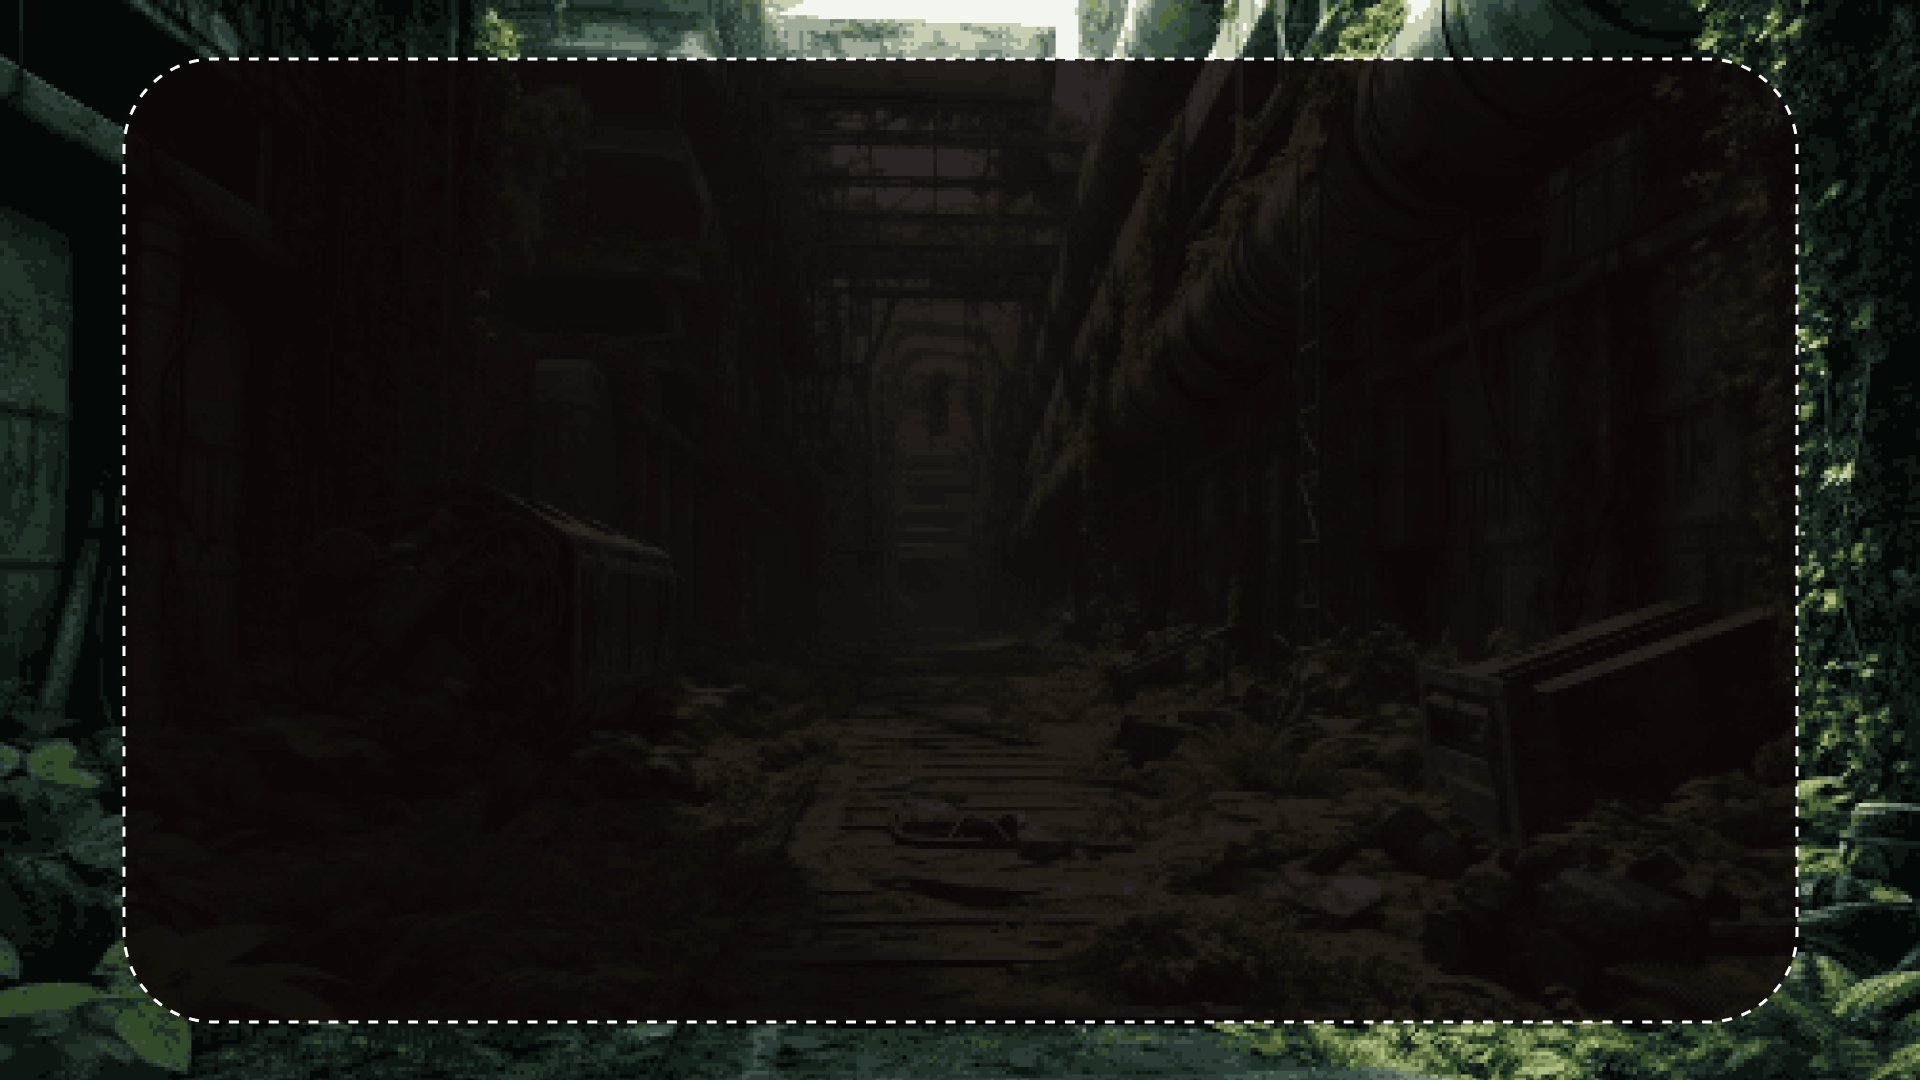
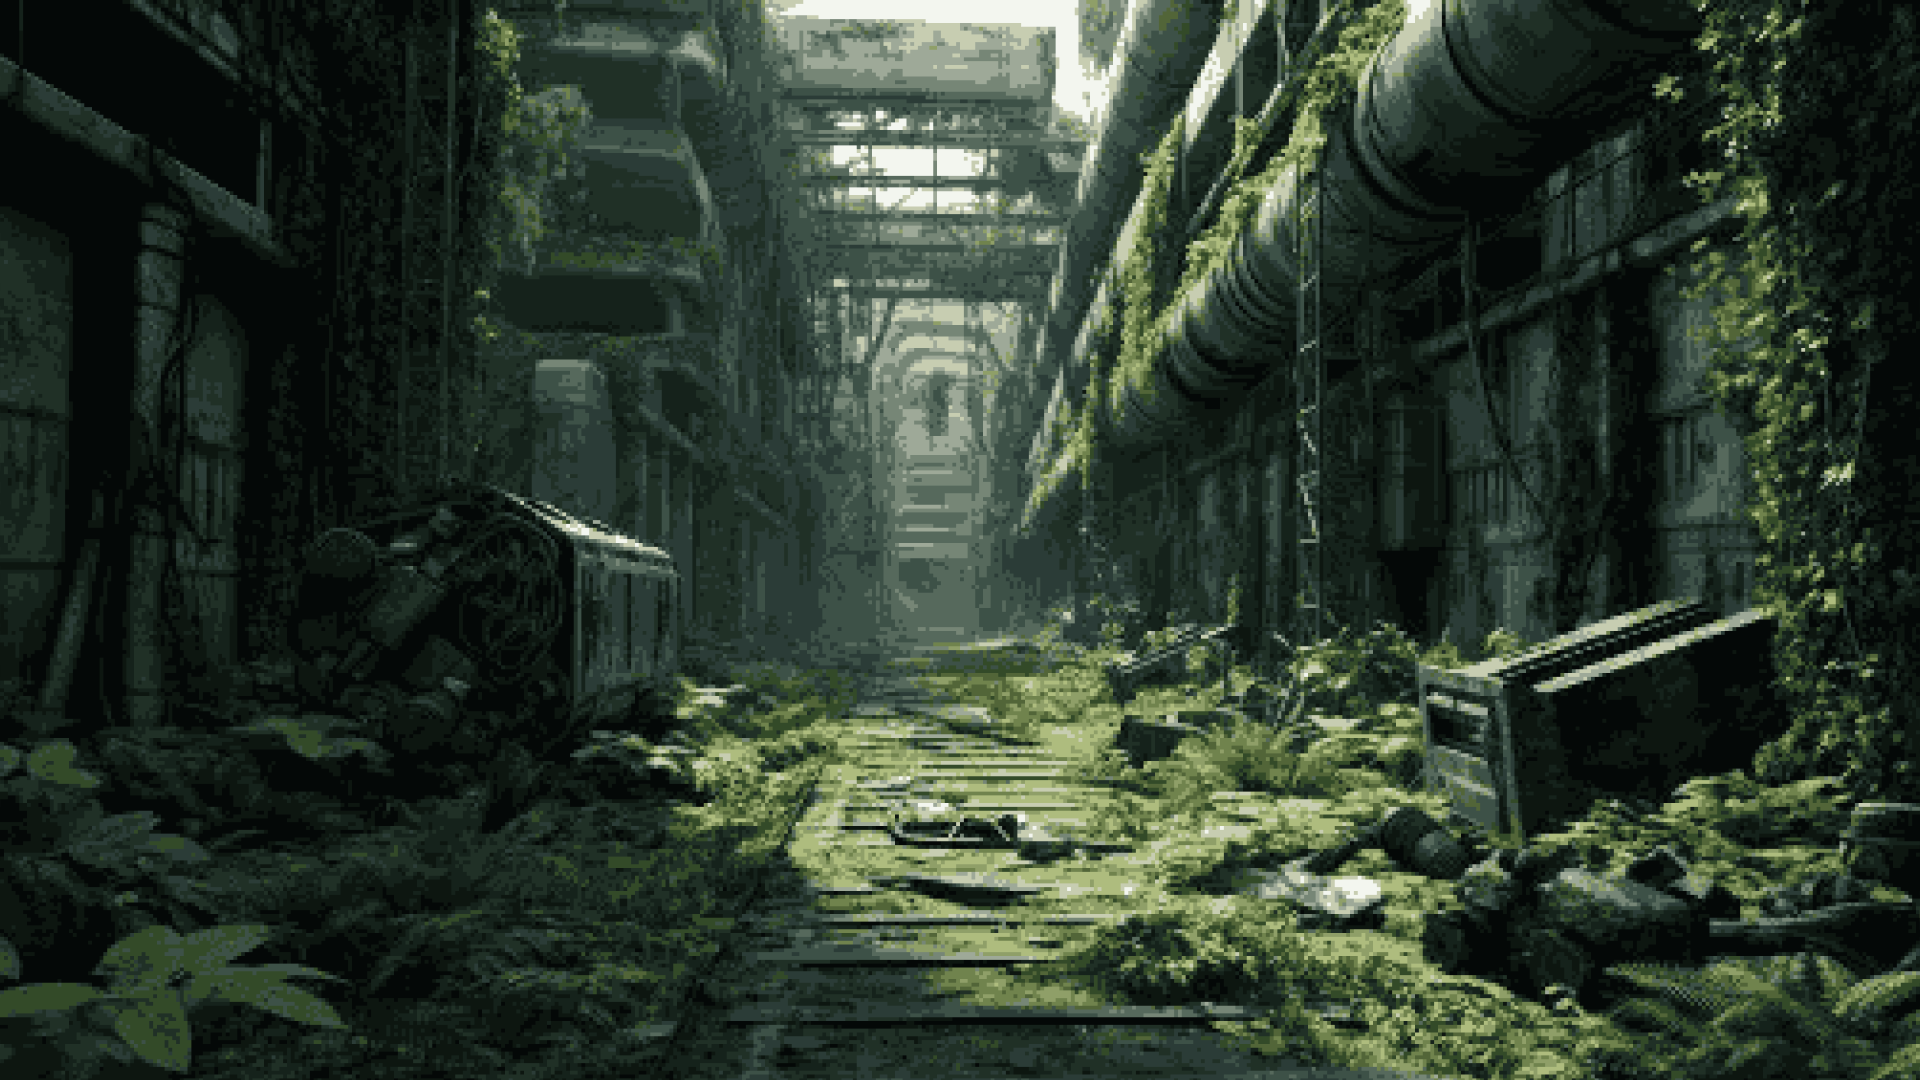
change backimage

diff --git a/frontend_project/src/pages/PaintPage.jsx b/frontend_project/src/pages/PaintPage.jsx
@@ -119,112 +119,115 @@ const PaintPage = () => {
         className="flex flex-col items-center justify-center w-screen h-screen"
         style={{
           backgroundImage: `url(${plant_img})`,
-          backgroundSize: "cover", 
+          backgroundSize: "cover",
           backgroundPosition: "center"
         }}
       >
-        <div>
-          {shouldNavigate && <Navigate to="/make" replace />}
-          <div className="text-white justify-center items-center">
-            <h2 className="text-4xl mb-10 ">
-              会話するモンスターを描いてください
-            </h2>
-          </div>
-          <div className="gap-32 flex justify-center">
-            <div className=" border-2 bg-white">
-              <canvas
-                ref={canvasRef}
-                onMouseDown={startDrawing}
-                onMouseMove={draw}
-                onMouseUp={stopDrawing}
-                onMouseLeave={stopDrawing}
-              />
-            </div>
-
-            <div className="flex flex-col justify-center items-center">
-              <h2 className="border-2 border-yellow-400  bg-slate-200 dark:bg-gray-500 w-80 mb-12 flex justify-center gap-8">
-                <div className="flex items-center">
-                  <label htmlFor="color" className="mr-2">ペンの色: </label>
-                  <input
-                    type="color"
-                    id="color"
-                    value={penColor}
-                    onChange={handleColorChange}
-                  />
-                </div>
-
-                <div className=" flex items-center">
-                  <label htmlFor="size" className="mr-2">ペンの太さ: </label>
-                  <input
-                  className="bg-white text-right text-black"
-                    type="number"
-                    id="size"
-                    min="1"
-                    max="10"
-                    value={penSize}
-                    onChange={handleSizeChange}
-                  />
-                </div>
+        {shouldNavigate && <Navigate to="/make" replace />}
+        <div className="w-screen h-screen flex justify-center items-center flex-col">
+          <div className="back_sheet z-10 relative"></div>
+          <div className="flex-col z-20 absolute top-50% left-50%">
+            <div className="text-white">
+              <h2 className="text-4xl mb-10 ">
+                会話するモンスターを描いてください
               </h2>
-              <div className="flex flex-col items-center">
-                <div className="w-44 flex justify-center  ">
-                  <button
-                    className="flex items-center w-5/5 m-6 border-2 border-yellow-400 bg-black text-white py-2 hover:bg-gray-700 transition duration-300 focus:border-transparent"
-                    onClick={eraseDrawing}
-                  >
-                    <img
-                      src={Eraser}
-                      alt="Click to Sign Out"
-                      className="w-1/5 mr-2"
-                    />
-                    <h2 className="text-2xl w-36 m-0">消しゴム</h2>
-                  </button>
-                  <button
-                    className="flex items-center w-5/5 m-6 border-2 border-yellow-400 bg-black text-white py-2 hover:bg-gray-700 transition duration-300 focus:border-transparent"
-                    onClick={clearCanvas}
-                  >
-                    <img
-                      src={Pencil}
-                      alt="Click to Sign Out"
-                      className="w-1/5 mr-2"
-                    />
-                    <h2 className="text-2xl w-36 m-0">クリア</h2>
-                  </button>
-                </div>
-                <div className="w-32 flex justify-center">
-                  <button
-                    className="flex items-center w-5/5 m-6 border-2 border-yellow-400 bg-black text-white py-2 hover:bg-gray-700 transition duration-300 focus:border-transparent"
-                    onClick={undoDrawing}
-                  >
-                    <img
-                      src={ArrowBack}
-                      alt="Click to Sign Out"
-                      className="w-1/5 mr-2"
-                    />
-                    <h2 className="text-2xl w-36 m-0">1つ戻る</h2>
-                  </button>
-                  <button
-                    className="flex items-center w-5/5 m-6 border-2 border-yellow-400 bg-black text-white py-2 hover:bg-gray-700 transition duration-300 focus:border-transparent"
-                    onClick={redoDrawing}
-                  >
-                    <img
-                      src={ArrowGo}
-                      alt="Click to Sign Out"
-                      className="w-1/5 mr-2"
-                    />
-                    <h2 className="text-2xl w-36 m-0">1つ進める</h2>
-                  </button>
-                </div>
-
-                {/* <button onClick={() => setShouldNavigate(true)}>作成</button> */}
+            </div>
+            <div className="gap-32 flex justify-center">
+              <div className=" border-2 bg-white">
+                <canvas
+                  ref={canvasRef}
+                  onMouseDown={startDrawing}
+                  onMouseMove={draw}
+                  onMouseUp={stopDrawing}
+                  onMouseLeave={stopDrawing}
+                />
               </div>
-              <div>
-                <button
-                  className="mt-24 border-2 border-Fuchsia-500 bg-black text-white py-2 hover:bg-gray-700 transition duration-300 focus:border-transparent"
-                  onClick={saveImage}
-                >
-                  <h2 className="text-3xl w-64 m-0">保存 ＆ キャラ作成</h2>
-                </button>
+
+              <div className="flex flex-col justify-center items-center">
+                <h2 className="border-2 border-yellow-400  bg-slate-200 dark:bg-gray-500 w-80 mb-12 flex justify-center gap-8">
+                  <div className="flex items-center">
+                    <label htmlFor="color" className="mr-2">ペンの色: </label>
+                    <input
+                      type="color"
+                      id="color"
+                      value={penColor}
+                      onChange={handleColorChange}
+                    />
+                  </div>
+
+                  <div className=" flex items-center">
+                    <label htmlFor="size" className="mr-2">ペンの太さ: </label>
+                    <input
+                    className="bg-white text-right text-black"
+                      type="number"
+                      id="size"
+                      min="1"
+                      max="10"
+                      value={penSize}
+                      onChange={handleSizeChange}
+                    />
+                  </div>
+                </h2>
+                <div className="flex flex-col items-center">
+                  <div className="w-44 flex justify-center  ">
+                    <button
+                      className="flex items-center w-5/5 m-6 border-2 border-yellow-400 bg-black text-white py-2 hover:bg-gray-700 transition duration-300 focus:border-transparent"
+                      onClick={eraseDrawing}
+                    >
+                      <img
+                        src={Eraser}
+                        alt="Click to Sign Out"
+                        className="w-1/5 mr-2"
+                      />
+                      <h2 className="text-2xl w-36 m-0">消しゴム</h2>
+                    </button>
+                    <button
+                      className="flex items-center w-5/5 m-6 border-2 border-yellow-400 bg-black text-white py-2 hover:bg-gray-700 transition duration-300 focus:border-transparent"
+                      onClick={clearCanvas}
+                    >
+                      <img
+                        src={Pencil}
+                        alt="Click to Sign Out"
+                        className="w-1/5 mr-2"
+                      />
+                      <h2 className="text-2xl w-36 m-0">クリア</h2>
+                    </button>
+                  </div>
+                  <div className="w-32 flex justify-center">
+                    <button
+                      className="flex items-center w-5/5 m-6 border-2 border-yellow-400 bg-black text-white py-2 hover:bg-gray-700 transition duration-300 focus:border-transparent"
+                      onClick={undoDrawing}
+                    >
+                      <img
+                        src={ArrowBack}
+                        alt="Click to Sign Out"
+                        className="w-1/5 mr-2"
+                      />
+                      <h2 className="text-2xl w-36 m-0">1つ戻る</h2>
+                    </button>
+                    <button
+                      className="flex items-center w-5/5 m-6 border-2 border-yellow-400 bg-black text-white py-2 hover:bg-gray-700 transition duration-300 focus:border-transparent"
+                      onClick={redoDrawing}
+                    >
+                      <img
+                        src={ArrowGo}
+                        alt="Click to Sign Out"
+                        className="w-1/5 mr-2"
+                      />
+                      <h2 className="text-2xl w-36 m-0">1つ進める</h2>
+                    </button>
+                  </div>
+
+                  {/* <button onClick={() => setShouldNavigate(true)}>作成</button> */}
+                </div>
+                <div>
+                  <button
+                    className="mt-24 border-2 border-Fuchsia-500 bg-black text-white py-2 hover:bg-gray-700 transition duration-300 focus:border-transparent"
+                    onClick={saveImage}
+                  >
+                    <h2 className="text-3xl w-64 m-0">保存 ＆ キャラ作成</h2>
+                  </button>
+                </div>
               </div>
             </div>
           </div>

diff --git a/frontend_project/src/pages/SelectModePage.jsx b/frontend_project/src/pages/SelectModePage.jsx
@@ -47,18 +47,19 @@ const SelectModePage = () => {
           backgroundPosition: "center"
         }}
       >
-        <div className="text-white flex flex-col w-3/5 justify-center items-center gap-5">
+        <div className="back_sheet z-10 relative"></div>
+        <div className="text-white flex flex-col w-full justify-center items-center gap-5 z-20 absolute left-50% top-50%">
           <h2 className="text-7xl mb-2">モード選択</h2>
           <h2 className="text-3xl mb-20">遊び方を選択してください</h2>
           <button
-            className="w-3/5 m-6 border-2 border-Fuchsia-500 bg-black text-white py-2 hover:bg-gray-700 transition duration-300 focus:border-transparent"
+            className="w-2/5 m-6 border-2 border-Fuchsia-500 bg-black text-white py-2 hover:bg-gray-700 transition duration-300 focus:border-transparent"
             onClick={handleCreateMonster}
           >
             <h2 className="text-4xl m-2">モンスターを作成</h2>
           </button>
           {getData > 0 ? (
             <button
-              className="w-3/5 m-6 border-2 border-Fuchsia-500 bg-black text-white py-2 hover:bg-gray-700 transition duration-300 focus:border-transparent"
+              className="w-2/5 m-6 border-2 border-Fuchsia-500 bg-black text-white py-2 hover:bg-gray-700 transition duration-300 focus:border-transparent"
               onClick={handleTalkToMonster}
             >
               <h2 className="text-4xl m-2">作ったモンスターと会話</h2>
@@ -66,7 +67,7 @@ const SelectModePage = () => {
           ) : (
             // １体もモンスターがいない場合はモンスターと会話ボタンを薄くして、クリックできないようにする
             <button
-              className="w-3/5 m-6 border-0 border-Fuchsia-500 bg-gray-400 bg-opacity-40 text-gray-400 text-opacity-50 py-2  transition duration-300"
+              className="w-2/5 m-6 border-0 border-Fuchsia-500 bg-gray-400 bg-opacity-40 text-gray-400 text-opacity-50 py-2  transition duration-300"
               onClick={null}
             >
               <h2 className="text-4xl m-2">作ったモンスターと会話</h2>

diff --git a/frontend_project/src/pages/SelectMakePage.jsx b/frontend_project/src/pages/SelectMakePage.jsx
@@ -25,21 +25,22 @@ const SelectMakePage = () => {
           backgroundPosition: "center"
         }}
       >
-        <div className="text-white flex flex-col w-3/5 justify-center items-center gap-5">
+        <div className="back_sheet z-10 relative"></div>
+        <div className="text-white flex flex-col items-center justify-center w-full gap-5 z-20 absolute top-50% left-50%">
           <h2 className="text-7xl mb-2">モンスター作成</h2>
           <h2 className="text-3xl mb-20">作成方法を選択してください</h2>
           <button
-            className="w-3/5 m-6 border-2 border-Fuchsia-500 bg-black text-white py-2 hover:bg-gray-700 transition duration-300 focus:border-transparent"
+            className="w-2/5 m-6 border-2 border-Fuchsia-500 bg-black text-white py-2 hover:bg-gray-700 transition duration-300 focus:border-transparent"
             onClick={handletoPaintPage}
           >
             <h2 className="text-4xl m-2">自分でイラストを描く</h2>
           </button>
-            <button
-              className="w-3/5 m-6 border-2 border-Fuchsia-500 bg-black text-white py-2 hover:bg-gray-700 transition duration-300 focus:border-transparent"
-              onClick={handleToCheckPage}
-            >
-              <h2 className="text-4xl m-2">既存の画像を使う</h2>
-            </button>
+          <button
+            className="w-2/5 m-6 border-2 border-Fuchsia-500 bg-black text-white py-2 hover:bg-gray-700 transition duration-300 focus:border-transparent"
+            onClick={handleToCheckPage}
+          >
+            <h2 className="text-4xl m-2">既存の画像を使う</h2>
+          </button>
         </div>
       </div>
     </div>

diff --git a/frontend_project/src/App.css b/frontend_project/src/App.css
@@ -8,6 +8,48 @@
   transition: background-color 0.3s ease-in-out, transform 0.3s ease-in-out; /* 背景色とトランスフォームのトランジションを追加 */
 }
 
+.flash_back {
+  opacity: 0;
+  animation-name: randomLight;
+  animation-duration: 5s;
+  animation-fill-mode: forwards;
+  animation-iteration-count: infinite;
+  animation-timing-function: steps(1, start);
+}
+
+.back_sheet {
+  border-radius: 10px;
+  width: 95%;
+  aspect-ratio: 1766/927;
+  opacity: 0.65;
+  background-color: black;
+  border: 5px dashed white;
+}
+
+
+/*.dashed {
+  background-image :
+    linear-gradient(to right, #000, #000 3px, transparent 3px, transparent 8px),  
+    linear-gradient(to bottom, #000, #000 3px, transparent 3px, transparent 8px), 
+    linear-gradient(to left, #000, #000 3px, transparent 3px, transparent 8px),  
+    linear-gradient(to top, #000, #000 3px, transparent 3px, transparent 8px);  
+  background-size:
+    8px 2px,  
+    2px 8px, 
+    8px 2px, 
+    2px 8px;  
+  background-position:
+    left top, 
+    right top, 
+    right bottom,  
+    left bottom;   
+  background-repeat:
+    repeat-x, 
+    repeat-y, 
+    repeat-x, 
+    repeat-y;   
+}*/
+
 @keyframes fadeInAnime {
   from {
     opacity: 0;
@@ -49,15 +91,6 @@
     filter: blur(0); /* ブラーフィルターを無効にする */
     opacity: 1;
   }
-}
-
-.flash_back {
-  opacity: 0;
-  animation-name: randomLight;
-  animation-duration: 5s;
-  animation-fill-mode: forwards;
-  animation-iteration-count: infinite;
-  animation-timing-function: steps(1, start);
 }
 
 @keyframes randomLight {

diff --git a/frontend_project/src/pages/SignUpPage.jsx b/frontend_project/src/pages/SignUpPage.jsx
@@ -5,7 +5,7 @@ import Image from "../assets/MONS LAB.png";
 const SignUpPage = () => {
   return (
     <div
-      className="flash_back flex flex-col items-center justify-center w-screen"
+      className="flex flex-col items-center justify-center w-screen"
       style={{
         backgroundImage: `url(${BackIcon})`,
         backgroundPosition: "center",

diff --git a/frontend_project/src/pages/MakePage.jsx b/frontend_project/src/pages/MakePage.jsx
@@ -132,7 +132,7 @@ const MakePage = () => {
 
   return (
 
-    <div className="flash_back">
+    <div>
       <SettingButton />
         <div
         className="flex flex-col items-center w-screen h-screen justify-end"
